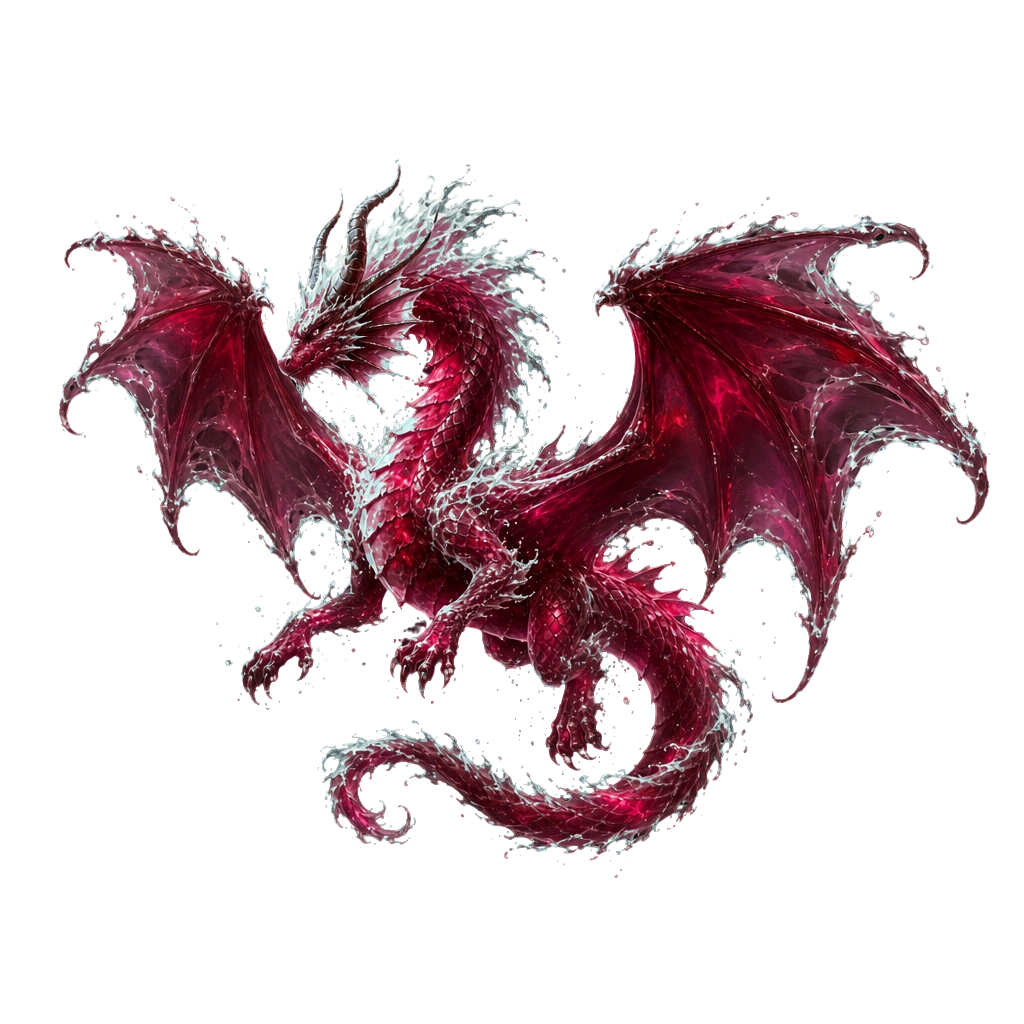
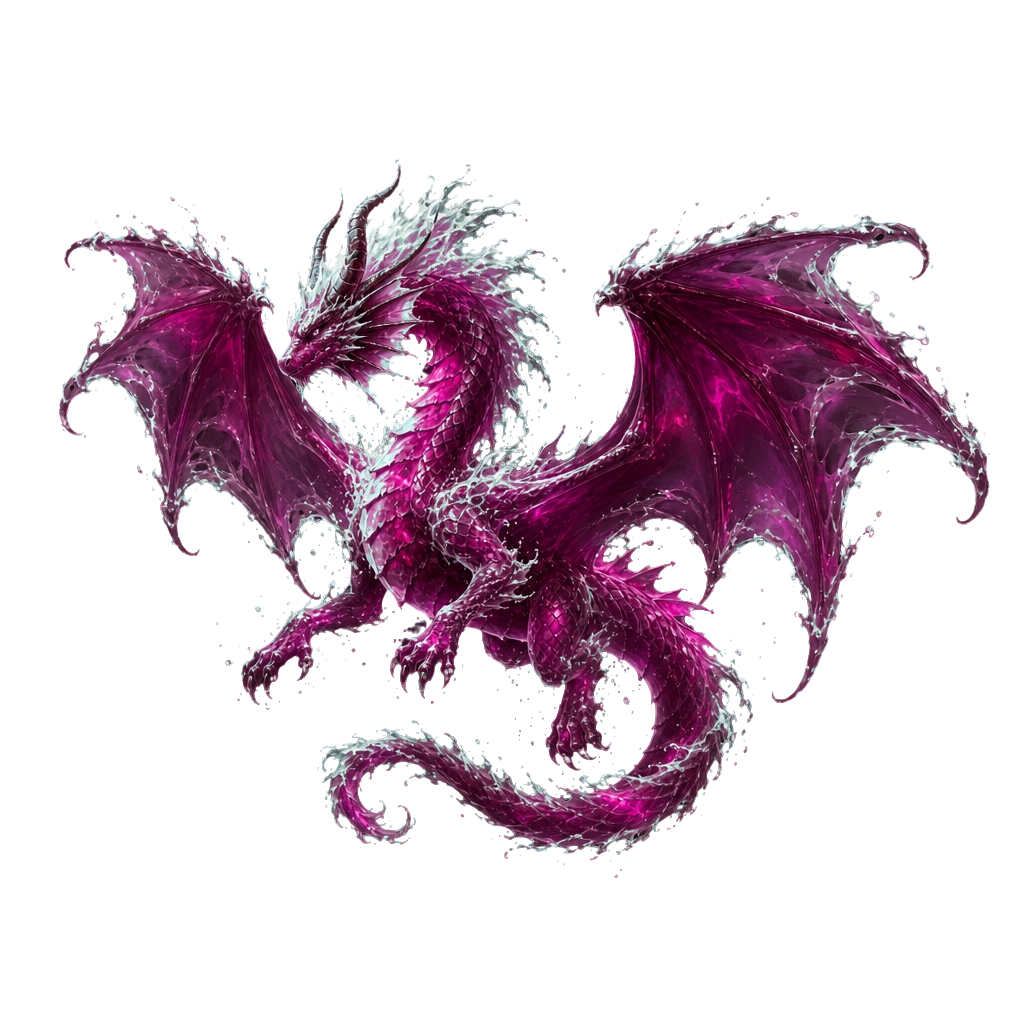
a line's three stages share one mutant colour; Charybdis redone in stage one's pink
D: "Charybdis (stage 3) is a different mutant color from its stage 1, which is pink. Redo the s3
mutant using our established recoloring technique so that s3 is also the same pink as s1."

The established technique is tools/make_mutants.py — a deterministic hue-cluster remap with
luminance untouched, seeded from the creature's ID. A line's three stages have three different IDs,
so they were always going to land on three different rotations: STORMFATHER ran +140, +162 and +215
degrees. Measured across the roster, ALL 100 lines disagreed — 52 degrees apart on average, 96 at
worst.

The palette is now seeded from the line's STAGE-1 id. Keyed on stage 1 rather than on the line name
deliberately: D named S1's pink as the one to keep, and hashing the line name would have moved
STORMFATHER to +124 and repainted the very stage he wants left alone. Verified: all 100 stage-1
creatures keep their own id as the seed key, so every stage-1 mutant already shipped is byte
identical.

Measured on the line: Riptide 333.2 unchanged, Maelstrom 346.0 -> 324.1, Charybdis 51.1 -> 336.6.
Spread across the line falls from 295 degrees to 12.6.

Only the STORMFATHER line is regenerated here — the tool skips files that already exist, so the
other 99 lines still hold their old art and await the word to redo them.

Changed region(s): [[0.0938, 0.2188, 0.7188, 0.8438], [0.5938, 0.2188, 0.9375, 0.5938], [0.3125, 0.7188, 0.375, 0.8125]]

diff --git a/system-mutants.html b/system-mutants.html
@@ -76,6 +76,16 @@ var ROWS=[['Worn','#c2ae8b',0.01],['Common','#c2ae8b',0.02],['Uncommon','#1eff00
 <script src="nav.js"></script>
 
   <h2>Changelog</h2>
+  <p><strong>2026-08-29 &mdash; a line's three stages now share one mutant colour.</strong> Charybdis's
+  mutant was orange while its own stage one is pink, and that was true of every line in the game. The
+  recolour is a deterministic hue rotation seeded from the creature's identifier &mdash; and the three
+  stages of a line have three different identifiers, so they were always going to land on three different
+  colours. Measured across the roster: <strong>all 100 lines disagreed, 52 degrees apart on average and 96
+  at the worst</strong>. A mutation belongs to the creature, not to the stage it happens to be standing at,
+  so the palette is now taken from the line's <em>first</em> stage. Keying it that way rather than to the
+  line's name is deliberate: every stage-one mutant already in the game is left <strong>byte for byte
+  identical</strong>, and only the later stages move onto it. Charybdis has gone from 51&deg; to 336&deg;,
+  against its stage one at 333&deg;.</p>
   <p><strong>2026-08-29 &mdash; a mutant is drawn as one in the equipment window too. ON DEV, not yet on
   release.</strong> A player devoured a same-line mutant into his creature; it turned mutant in battle, but
   its icon in the equipment window kept the ordinary art. Devour had set the flag correctly and the battle

diff --git a/tools/make_mutants.py b/tools/make_mutants.py
@@ -24,7 +24,7 @@ def to_rgb(h,s,v):
         out[...,0][m]=rr[m]; out[...,1][m]=gg[m]; out[...,2][m]=bb[m]
     return out
 
-def mutate(path, cid, out_path):
+def mutate(path, cid, out_path, seed_key=None):
     img = Image.open(path).convert('RGBA')
     arr = np.array(img)
     rgb = arr[...,:3].astype(np.float32)/255.0
@@ -32,7 +32,19 @@ def mutate(path, cid, out_path):
     h,s,v = to_hsv(rgb)
     vis = alpha[...,0] > 40
 
-    seed = int(hashlib.sha1(cid.encode()).hexdigest()[:8], 16)
+    # SEEDED ON THE LINE'S STAGE-1 ID, NOT ON EACH CREATURE (D 2026-08-29: 'Charybdis stage 3 is a
+    # different mutant colour from its stage 1, which is pink - redo the s3 so that s3 is also the
+    # same pink as s1'). The seed was the creature's OWN id, and a line's three stages have three
+    # different ids, so the three got three different hue rotations BY CONSTRUCTION - STORMFATHER
+    # ran +140, +162 and +215 degrees. Measured across the roster: ALL 100 lines disagreed, 52
+    # degrees apart on average and 96 at worst. A mutation is a trait of the creature, not of the
+    # stage it happens to be standing at.
+    # THE KEY IS STAGE 1's ID AND NOT THE LINE NAME, deliberately: D named S1's pink as the one to
+    # keep, and hashing the line name instead would have moved STORMFATHER to +124 and repainted the
+    # very stage he wants left alone. Keyed this way, every stage-1 mutant is BYTE-IDENTICAL to what
+    # already shipped and only the later stages move onto it. Still deterministic, still reproducible
+    # from the CSV alone.
+    seed = int(hashlib.sha1((seed_key or cid).encode()).hexdigest()[:8], 16)
     rot_main = (120 + seed % 101) / 360.0          # 120..220 deg
     rot_sec  = -(40 + (seed >> 8) % 71) / 360.0    # -40..-110 deg
 
@@ -67,10 +79,17 @@ if __name__ == '__main__':
     mode = sys.argv[2] if len(sys.argv) > 2 else 'creatures'
     os.makedirs(outdir, exist_ok=True)
     if mode == 'bosses':
-        rows = [{'ID': r['Boss_ID'], 'Image_Path': r['Image_Path']}
+        rows = [{'ID': r['Boss_ID'], 'Image_Path': r['Image_Path'], 'Seed_Key': r['Boss_ID']}
                 for r in csv.DictReader(open('codex/bosses.csv'))]
     else:
         rows = list(csv.DictReader(open('codex/creatures.csv')))
+        # every stage of a line adopts the palette of its stage 1
+        base = {}
+        for r in rows:
+            if str(r.get('Stage','')).strip() == '1' and r.get('Line_ID'):
+                base[r['Line_ID']] = r['ID']
+        for r in rows:
+            r['Seed_Key'] = base.get(r.get('Line_ID',''), r['ID'])
     done = skipped = 0
     for r in rows:
         p = r.get('Image_Path','').strip()
@@ -78,6 +97,6 @@ if __name__ == '__main__':
             skipped += 1; continue
         op = os.path.join(outdir, r['ID'] + '.webp')
         if os.path.exists(op): done += 1; continue
-        mutate(p, r['ID'], op)
+        mutate(p, r['ID'], op, seed_key=(r.get('Seed_Key') or r['ID']))   # bosses carry none: they key on their own id, unchanged
         done += 1
     print('mutants generated:', done, '| skipped:', skipped)
